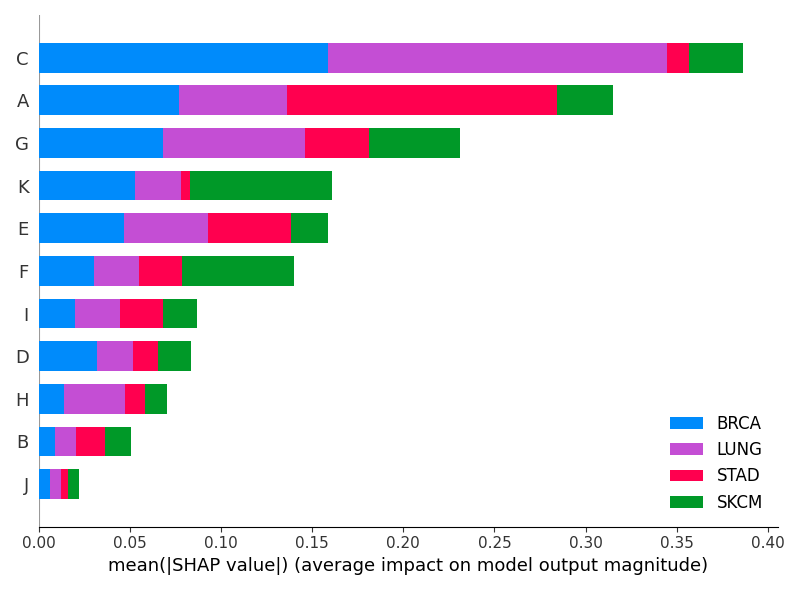
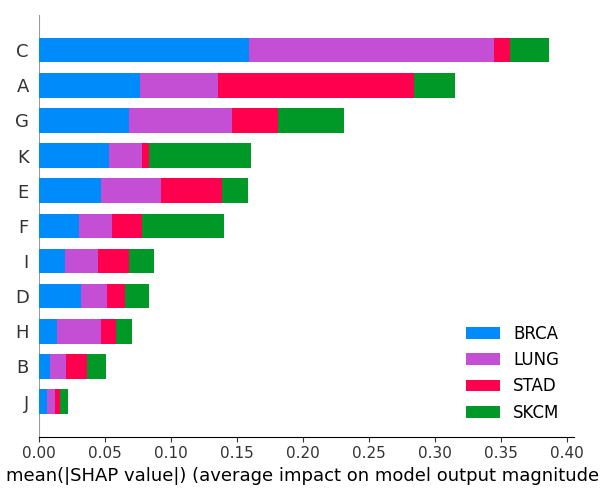
new mds plot, shap figures for report

Changed region(s): [[0.0, 0.06, 1.0, 0.99], [0.45, 0.21, 0.48, 0.27]]

diff --git a/src/classifiers.py b/src/classifiers.py
@@ -98,31 +98,44 @@ def calculate_shap_rf(rf, X_train, X_test):
     explainer = shap.TreeExplainer(rf, X_train)
     shap_values = explainer.shap_values(X_test)
     print(shap_values.shape)
-    return shap_values
+    return shap_values, explainer
 
 def calculate_shap_nn(nn, X_train, X_test):
     X_summary = shap.kmeans(X_train, 50)
     explainer = shap.KernelExplainer(nn.predict_proba, X_summary)
     shap_values = explainer.shap_values(X_test)
-    return shap_values
+    return shap_values, explainer
 
-def plot_shap(shap_values, X, output_folder, model_name):
+def plot_shap(shap_values, explainer, X, output_folder, model_name):
     class_names = ["BRCA", "LUNG", "STAD", "SKCM"]
     feature_names = ["A", "B", "C", "D", "E", "F", "G", "H", "I", "J", "K"]
     #shap_values = shap_values.transpose(2, 0, 1)
     #shap.summary_plot(shap_values, X, plot_type='bar', class_names=class_names, feature_names=feature_names)
+    plt.figure(figsize=(7, 5) )
     shap.summary_plot(
     [shap_values[:, :, class_ind] for class_ind in range(shap_values.shape[-1])],
     class_names=class_names,
     feature_names=feature_names,
-    plot_type="bar"
+    plot_type="bar",
+    plot_size=[6, 5]
 )
     plt.savefig(output_folder + '/' + model_name + '_shap_summary_plot.png')
     plt.clf()
+    plt.figure(figsize=(20, 5))
     for i in range(len(class_names)):
-        shap.summary_plot(shap_values[:, :, i], X, feature_names=feature_names)
-        plt.savefig(output_folder + '/' + model_name + '_shap_summary_plot_class_' + class_names[i] + '.png')
-        plt.clf()
+        plt.subplot(1, len(class_names), i + 1)
+        shap.summary_plot(shap_values[:, :, i], X, feature_names=feature_names, plot_size=[20,5], max_display=5)
+    plt.savefig(output_folder + '/' + model_name + '_shap_summary_plot_dot.png')
+    plt.clf()
+    
+    #plot individual bar plots in subplots
+    shap_explainer = explainer(X)
+    for i in range(len(class_names)):
+        plt.figure()
+        shap.plots.bar(shap_explainer[:, :, i], max_display=5)
+        plt.savefig(output_folder + '/' + model_name + '_shap_summary_plot_bar_'+ class_names[i] +'.png')
+    plt.clf()
+        
     # shap.summary_plot(shap_values[0], X)
     # plt.savefig(output_folder + '/' + model_name +  '_shap_summary_plot_values.png')
 
@@ -254,7 +267,7 @@ if __name__ == '__main__':
     rf, nn = retrieve_models("results_classifiers_11")
     X, y = load_data('data/labeled_data_11.txt')
     X_train, X_test, y_train, y_test = train_test_split(X, y, test_size=0.2, random_state=42)
-    shap_values_rf = calculate_shap_rf(rf, X_train, X_test)
-    plot_shap(shap_values_rf, X_test, "results_classifiers_11", model_name='random_forest')
-    shap_values_nn = calculate_shap_nn(nn, X_train, X_test)
-    plot_shap(shap_values_nn, X_test, "results_classifiers_11", model_name='neural_network')
+    shap_values_rf, explainer_rf = calculate_shap_rf(rf, X_train, X_test)
+    plot_shap(shap_values_rf, explainer_rf, X_test, "results_classifiers_11", model_name='random_forest')
+    shap_values_nn, explainer_nn = calculate_shap_nn(nn, X_train, X_test)
+    plot_shap(shap_values_nn, explainer_nn, X_test, "results_classifiers_11", model_name='neural_network')

diff --git a/src/signature_similarity.py b/src/signature_similarity.py
@@ -79,26 +79,23 @@ def plot_mds_coordinates(signatures, coordinates):
     #color points by class, annotate signature names
     for i, signature in enumerate(signatures):
         if "ALL" in signature:
-            ax.plot(coordinates[i, 0], coordinates[i, 1], "o", color="red")
-        elif "BRCA" in signature:
-            ax.plot(coordinates[i, 0], coordinates[i, 1], "o", color="blue")
-        elif "LUNG" in signature:
-            ax.plot(coordinates[i, 0], coordinates[i, 1], "o", color="green")
-        elif "SKCM" in signature:
-            ax.plot(coordinates[i, 0], coordinates[i, 1], "o", color="purple")
-        elif "STAD" in signature:
             ax.plot(coordinates[i, 0], coordinates[i, 1], "o", color="orange")
+        elif "BRCA" in signature:
+            ax.plot(coordinates[i, 0], coordinates[i, 1], "o", color="purple")
+        elif "LUNG" in signature:
+            ax.plot(coordinates[i, 0], coordinates[i, 1], "o", color="blue")
+        elif "SKCM" in signature:
+            ax.plot(coordinates[i, 0], coordinates[i, 1], "o", color="red")
+        elif "STAD" in signature:
+            ax.plot(coordinates[i, 0], coordinates[i, 1], "o", color="green")
         ax.text(coordinates[i, 0], coordinates[i, 1], signature[-1])
     
-    #add labels
-    ax.set_xlabel("MDS1")
-    ax.set_ylabel("MDS2")
     #plot legend
-    ax.plot([], [], "o", color="red", label="ALL")
-    ax.plot([], [], "o", color="blue", label="BRCA")
-    ax.plot([], [], "o", color="green", label="LUNG")
-    ax.plot([], [], "o", color="purple", label="SKCM")
-    ax.plot([], [], "o", color="orange", label="STAD")
+    ax.plot([], [], "o", color="orange", label="ALL")
+    ax.plot([], [], "o", color="purple", label="BRCA")
+    ax.plot([], [], "o", color="blue", label="LUNG")
+    ax.plot([], [], "o", color="red", label="SKCM")
+    ax.plot([], [], "o", color="green", label="STAD")
     ax.legend()
 
     return fig
@@ -184,7 +181,7 @@ if __name__ == "__main__":
     # main(combined_results, 
     #      results_individual, 
     #      "results_combined/SBS96_S11_Signatures_Similarities_08.txt")
-    #main_MDS([combined_results] + results_individual, "results_combined/SBS96_S11_Signatures_MDS.png")
-    main_MDS_3D([combined_results] + results_individual, "results_combined/SBS96_S11_Signatures_MDS_3D.png")
+    main_MDS([combined_results] + results_individual, "results_combined/SBS96_S11_Signatures_MDS_new.png")
+    #main_MDS_3D([combined_results] + results_individual, "results_combined/SBS96_S11_Signatures_MDS_3D.png")
     
 
